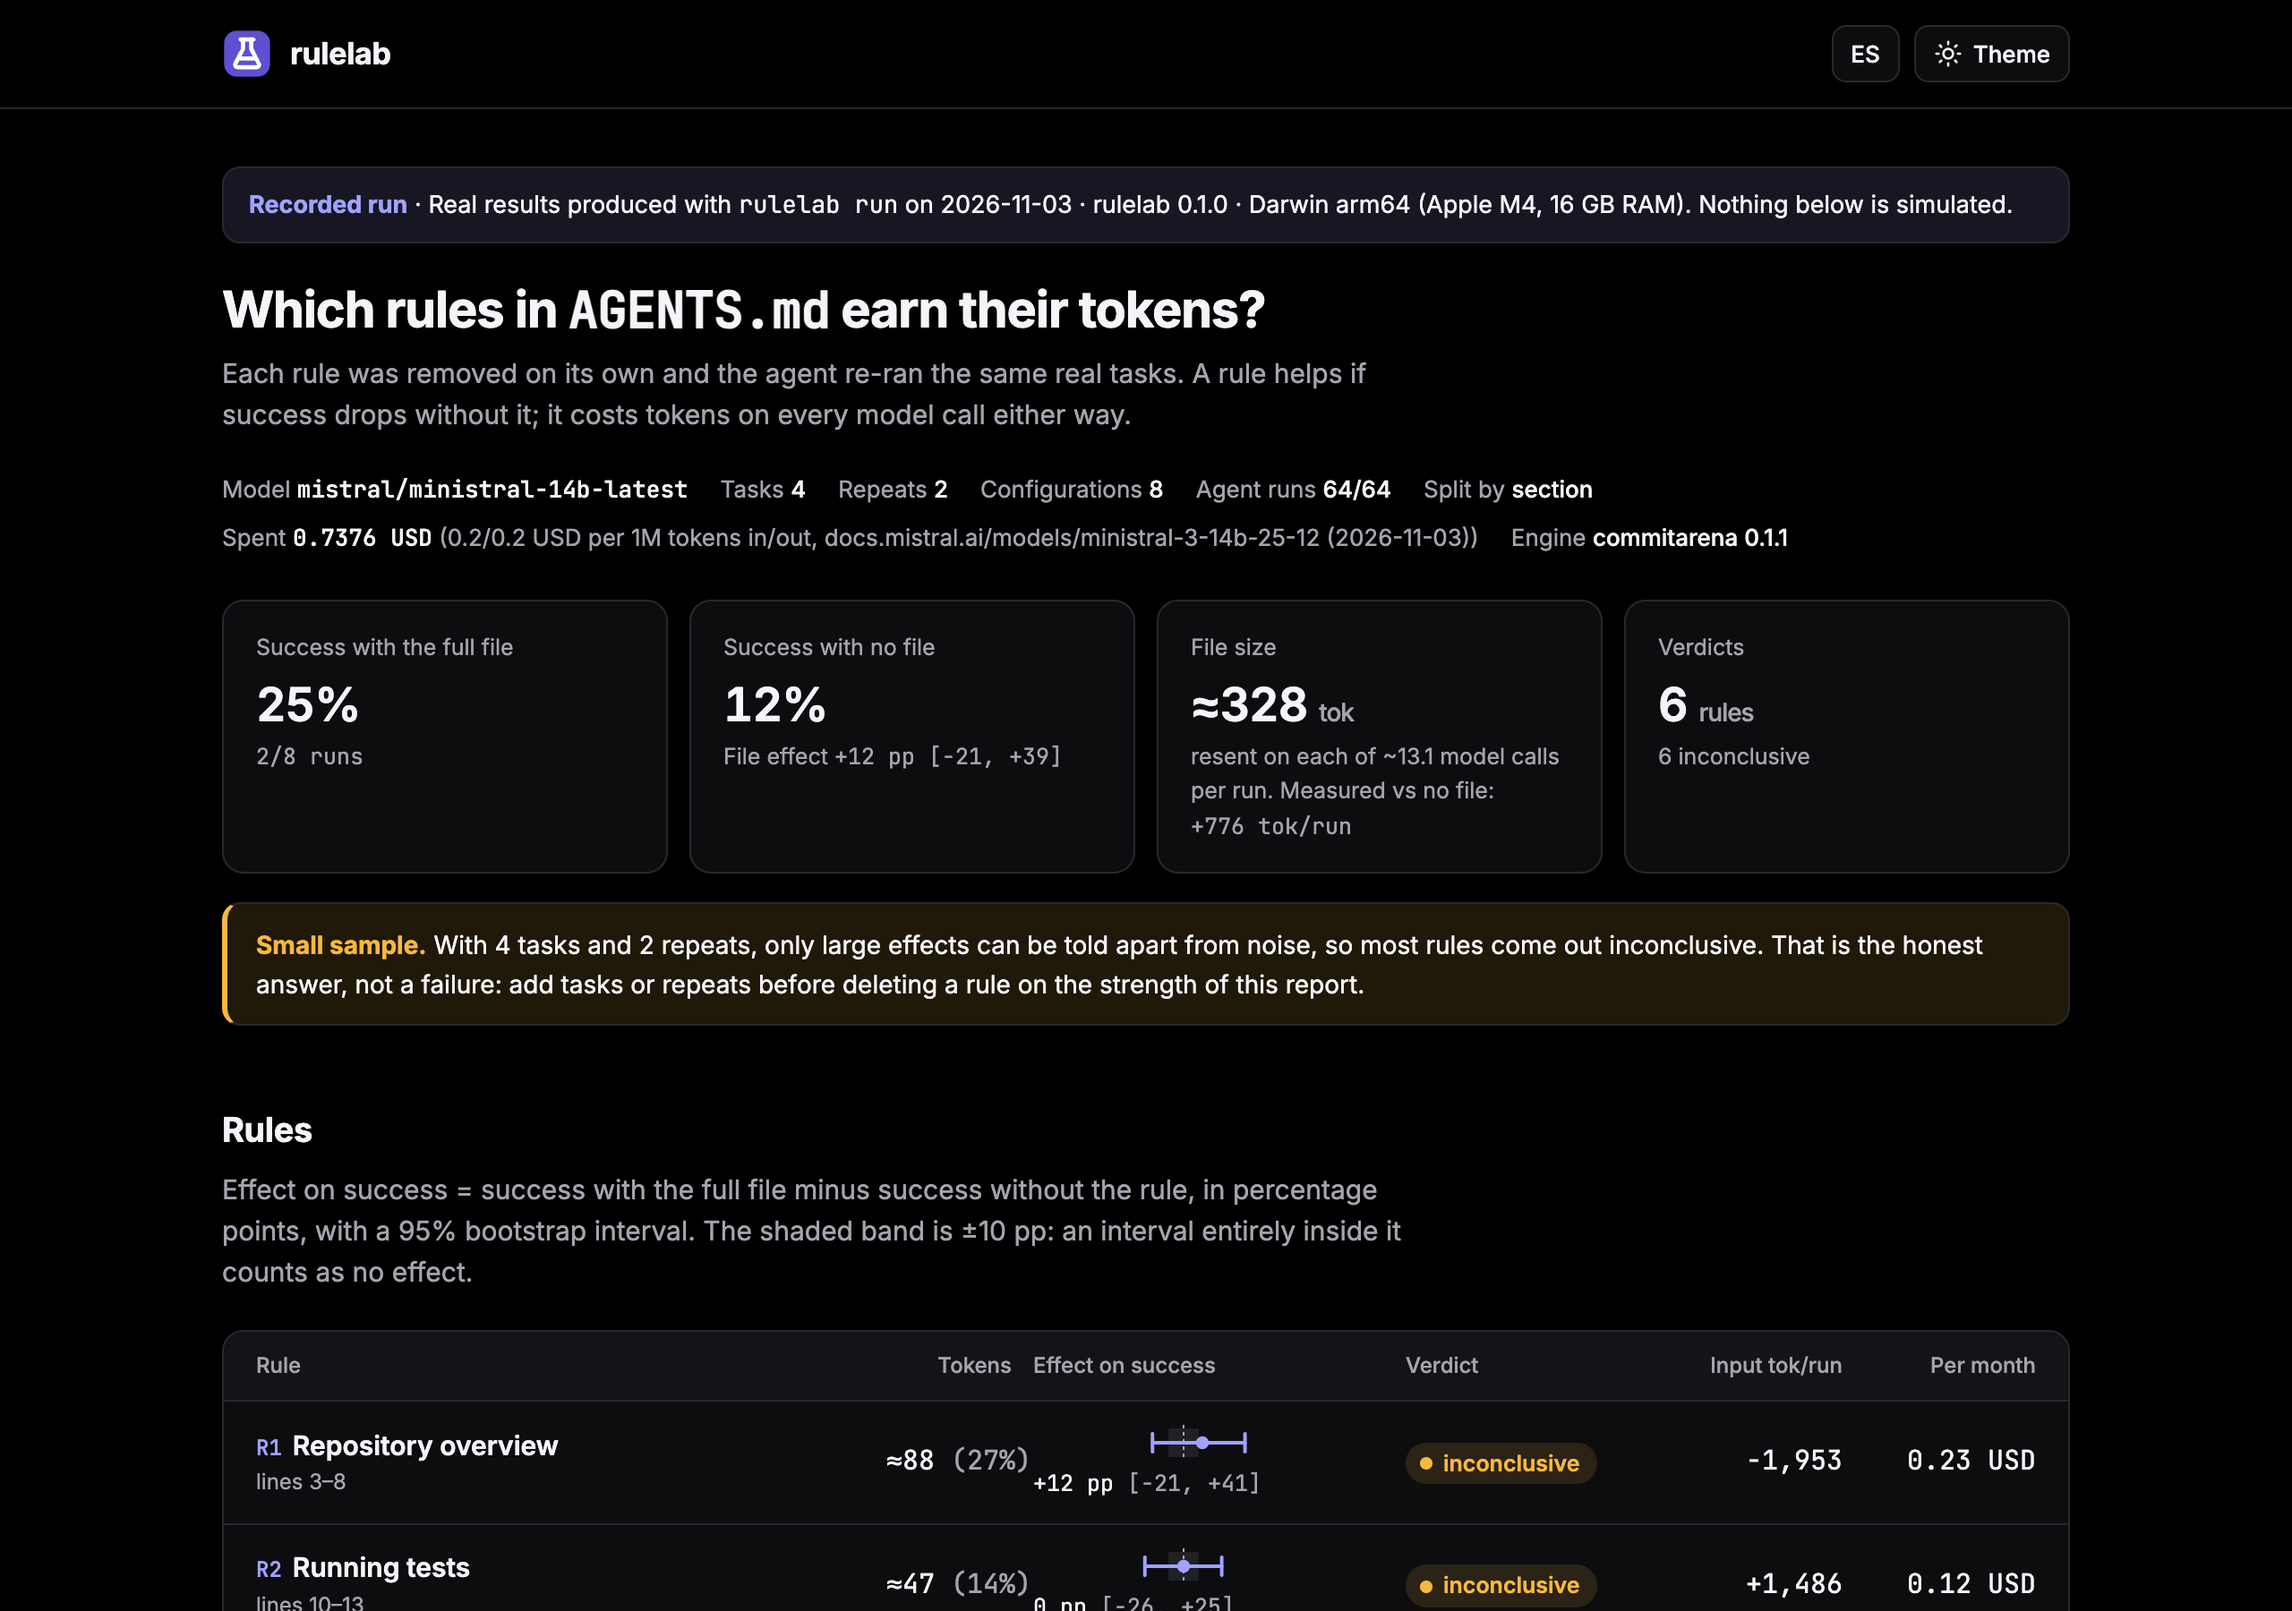
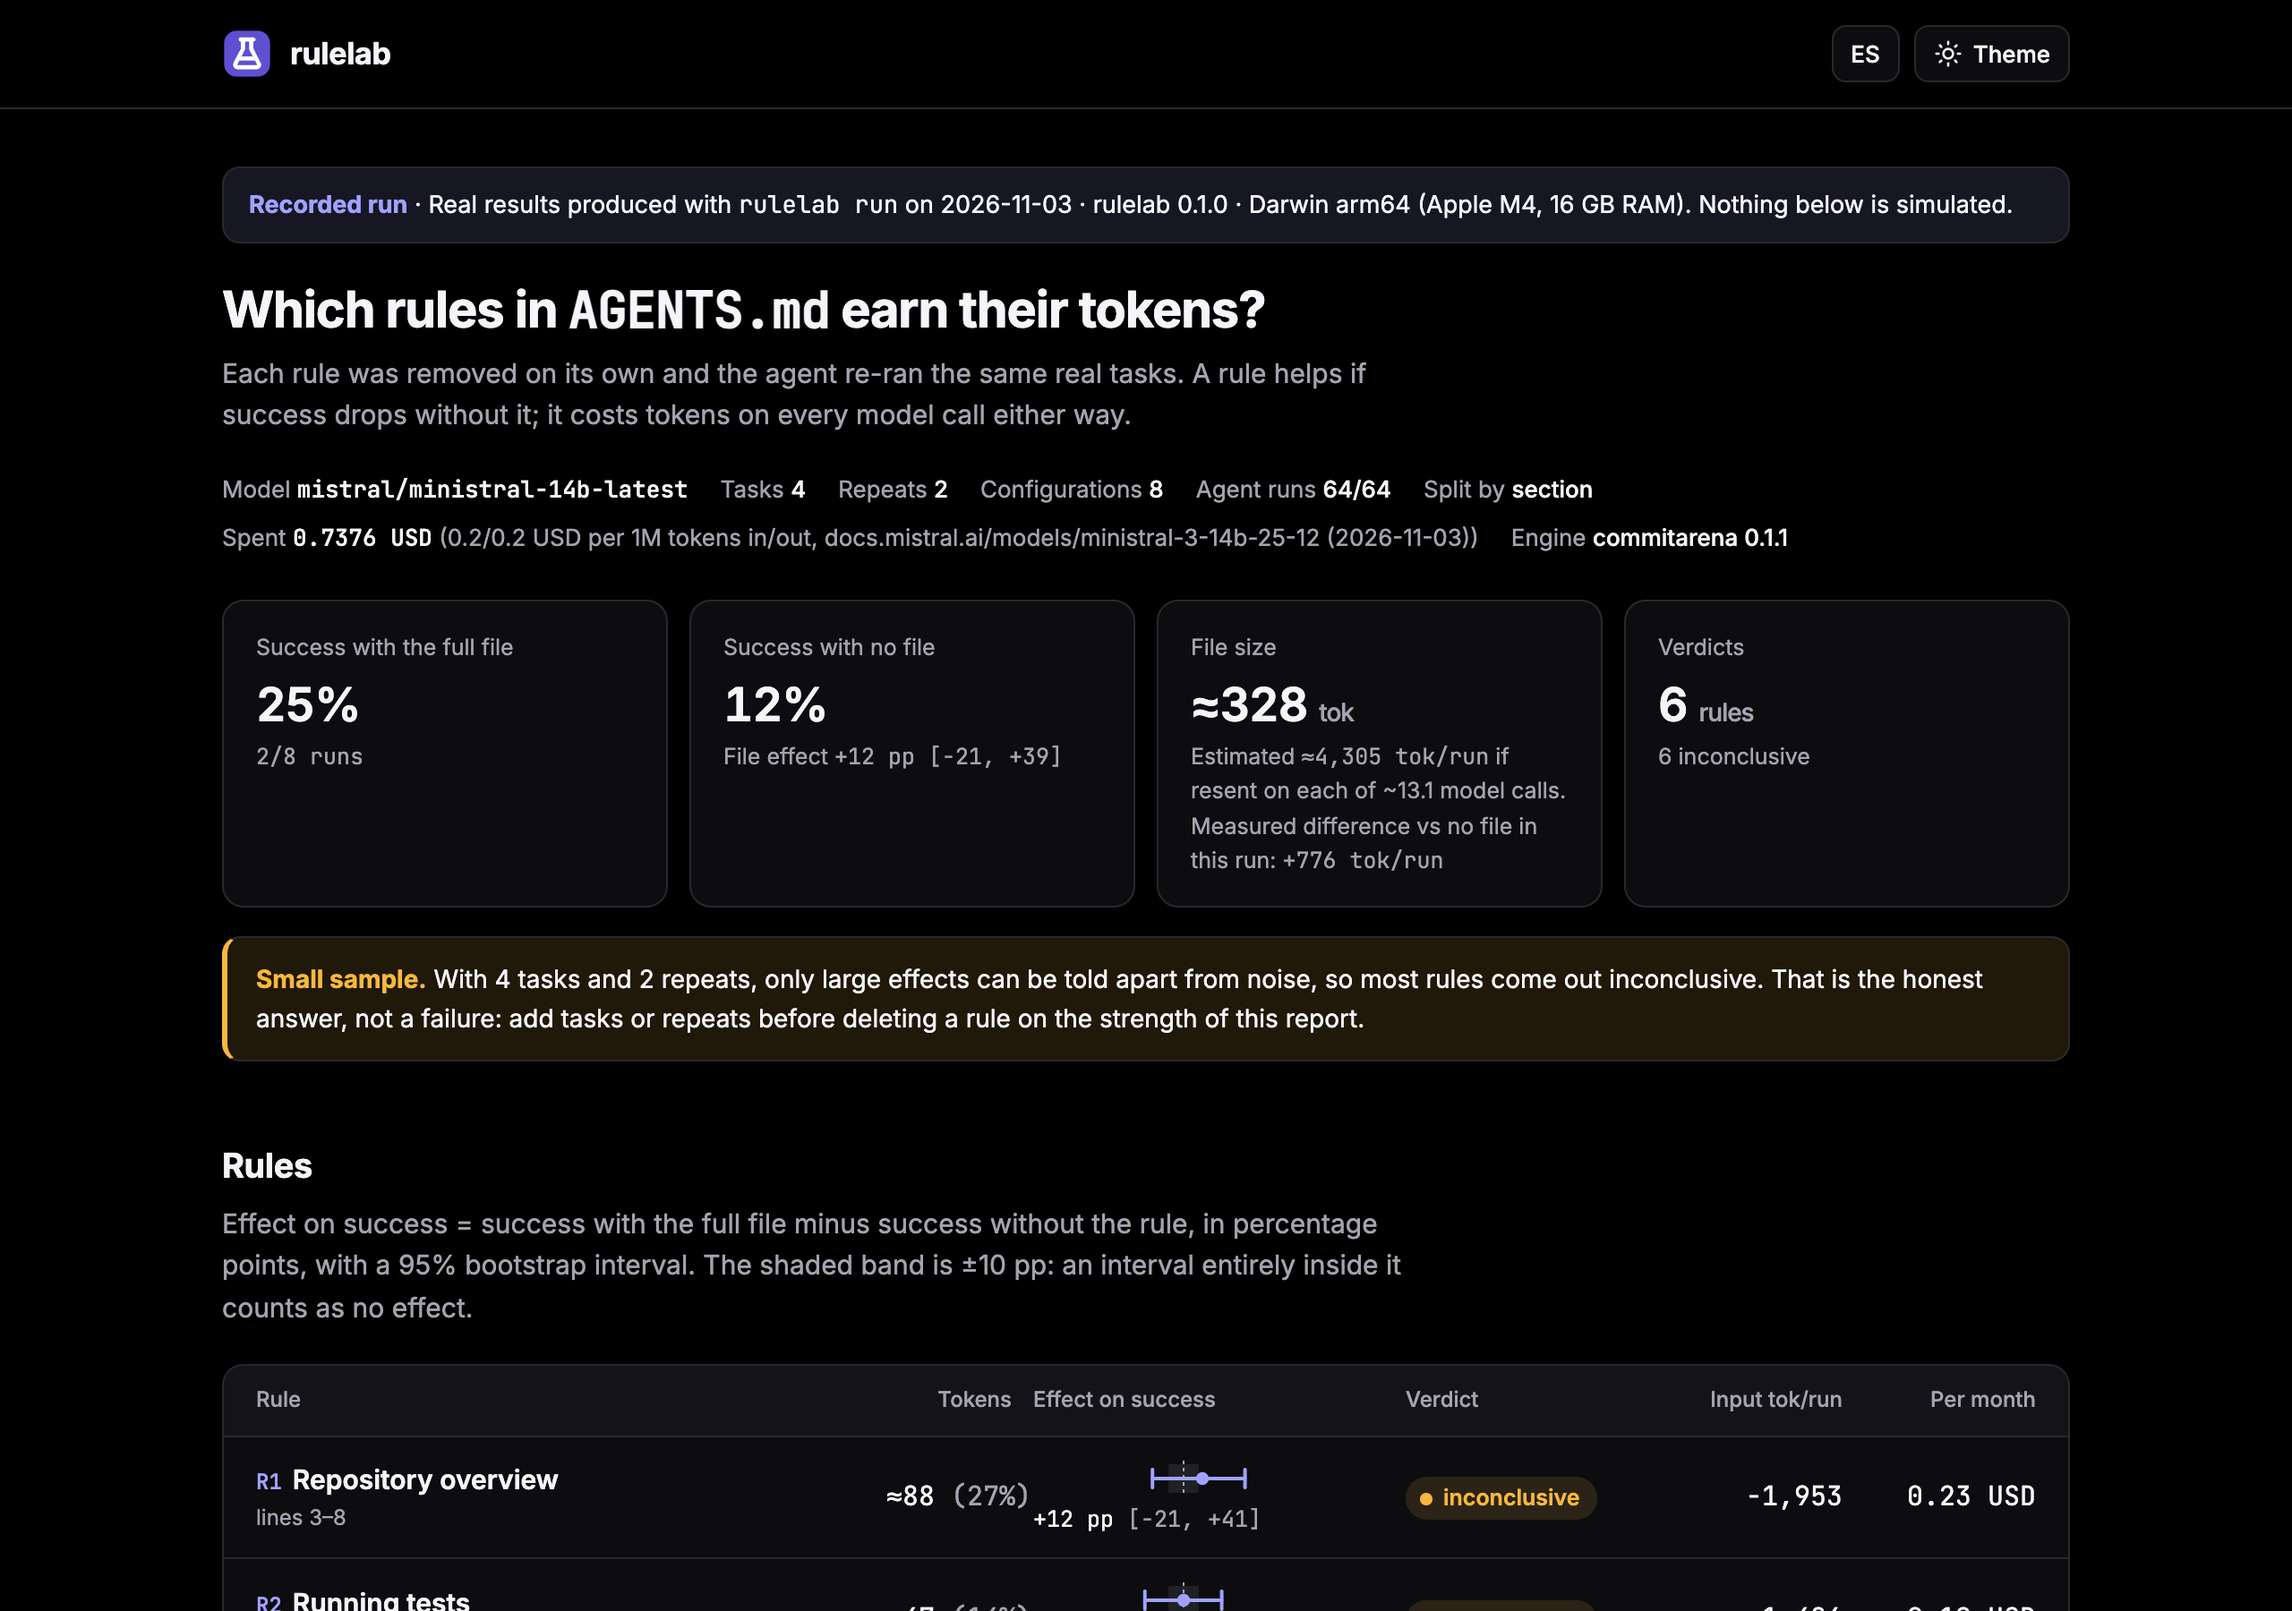
fix(report): locale-aware numbers, translated price label, separate estimated and measured file cost; v0.1.1

diff --git a/src/rulelab/report.py b/src/rulelab/report.py
@@ -6,9 +6,10 @@ import math
 from pathlib import Path
 
 from jinja2 import Environment, PackageLoader, select_autoescape
+from markupsafe import Markup, escape
 
 from . import __version__
-from .analysis import Analysis, file_monthly_usd
+from .analysis import Analysis, file_monthly_usd, file_tokens_per_run
 from .configs import FULL, NONE
 
 VERDICT_LABELS = {
@@ -54,6 +55,44 @@ def usd(x: float | None, digits: int = 2) -> str:
     if 0 < abs(x) < 10 ** (-digits):
         return f"<{10 ** (-digits):.{digits}f}"
     return f"{x:,.{digits}f}"
+
+
+def _es(text: str) -> str:
+    """English-formatted number -> Spanish (1,953.5 -> 1.953,5)."""
+    return text.replace(",", "\0").replace(".", ",").replace("\0", ".")
+
+
+def _both(en: str, es: str) -> Markup:
+    return Markup('<span lang="en">%s</span><span lang="es">%s</span>') % (escape(en), escape(es))
+
+
+def b_num(x: float | None, digits: int = 0) -> Markup:
+    if x is None or not _num(x):
+        return _both("n/a", "n/d")
+    en = f"{x:,.{digits}f}"
+    return _both(en, _es(en))
+
+
+def b_signed_int(x: float | None) -> Markup:
+    en = signed_int(x)
+    return _both(en, "n/d" if en == "n/a" else _es(en))
+
+
+def b_usd(x: float | None, digits: int = 2) -> Markup:
+    en = usd(x, digits)
+    if en == "n/a":
+        return _both("n/a", "n/d")
+    return _both(f"{en} USD", f"{_es(en)} US$")
+
+
+def b_pct(x: float | None) -> Markup:
+    en = pct(x)
+    return _both(en, "n/d" if en == "n/a" else en.replace("%", "\u00a0%"))
+
+
+def b_plain(x) -> Markup:
+    en = str(x)
+    return _both(en, _es(en))
 
 
 def ci_bar(low: float, high: float, est: float, margin: float, width: int = 168) -> dict:
@@ -110,7 +149,7 @@ def render_report(a: Analysis, *, recorded_note: dict | None = None) -> str:
         trim_blocks=True,
         lstrip_blocks=True,
     )
-    env.filters.update(pp=pp, pct=pct, usd=usd, signed_int=signed_int)
+    env.filters.update(pp=pp, pct=b_pct, usd=b_usd, signed_int=b_signed_int, num=b_num, plain=b_plain)
     res = a.results
     configs = []
     for c in res["configs"]:
@@ -151,6 +190,7 @@ def render_report(a: Analysis, *, recorded_note: dict | None = None) -> str:
         full_rate=a.rates.get(FULL),
         none_rate=a.rates.get(NONE),
         file_monthly=file_monthly_usd(a),
+        file_per_run=file_tokens_per_run(a),
         total_runs=len(res["runs"]),
         planned_runs=len(res["configs"]) * len(res["tasks"]) * res["repeats"],
         recorded=recorded_note,

diff --git a/src/rulelab/analysis.py b/src/rulelab/analysis.py
@@ -12,6 +12,7 @@ from .stats import DEFAULT_MARGIN, Effect, MeanCI, metric_delta, success_effect,
 # Claude Sonnet 5.5 input list price on OpenRouter, checked 3 Nov 2026 (USD per 1M tokens).
 REFERENCE_PRICE_IN = 2.0
 REFERENCE_PRICE_LABEL = "Claude Sonnet 5.5 input price on OpenRouter (3 Nov 2026)"
+REFERENCE_PRICE_LABEL_ES = "precio de entrada de Claude Sonnet 5.5 en OpenRouter (3 nov 2026)"
 DEFAULT_SESSIONS_PER_MONTH = 1000
 
 
@@ -47,6 +48,7 @@ class Analysis:
     mean_turns: float
     price_in: float
     price_label: str
+    price_label_es: str
     sessions_per_month: int
     margin: float
     errors: int
@@ -106,10 +108,12 @@ def analyze(
         model_price = _model_price_in(results)
         if model_price > 0:
             price_in, price_label = model_price, f"{results.get('model')} input price"
+            price_label_es = f"precio de entrada de {results.get('model')}"
         else:
             price_in, price_label = REFERENCE_PRICE_IN, REFERENCE_PRICE_LABEL
+            price_label_es = REFERENCE_PRICE_LABEL_ES
     else:
-        price_label = "--price-in"
+        price_label = price_label_es = "--price-in"
 
     rules: list[RuleResult] = []
     for i, rd in enumerate(results["file"]["rules"]):
@@ -152,11 +156,17 @@ def analyze(
         mean_turns=mean_turns,
         price_in=price_in,
         price_label=price_label,
+        price_label_es=price_label_es,
         sessions_per_month=sessions_per_month,
         margin=margin,
         errors=errors,
         counts=counts,
     )
+
+
+def file_tokens_per_run(a: Analysis) -> float:
+    """Estimated input tokens the file adds per run if it is resent on every model call."""
+    return a.results["file"]["tokens"] * a.mean_turns
 
 
 def file_monthly_usd(a: Analysis) -> float:

diff --git a/src/rulelab/cli.py b/src/rulelab/cli.py
@@ -16,7 +16,7 @@ from rich.console import Console
 from rich.table import Table
 
 from . import __version__
-from .analysis import DEFAULT_SESSIONS_PER_MONTH, Analysis, analyze
+from .analysis import DEFAULT_SESSIONS_PER_MONTH, Analysis, analyze, file_tokens_per_run
 from .errors import RulelabError
 from .experiment import BudgetError, check_budget, execute, load, make_plan, new_results
 from .report import VERDICT_LABELS, pp, signed_int, usd, write_report
@@ -101,12 +101,14 @@ def print_summary(a: Analysis) -> None:
             w = a.whole_file
             line += f" · file effect {pp(w.estimate)} pp [{pp(w.low)}, {pp(w.high)}]"
         console.print(line)
+    est = f"file tokens per run, estimated if resent on every call: ≈{file_tokens_per_run(a):,.0f}"
     if a.whole_file_tokens and a.whole_file_tokens.n:
         t = a.whole_file_tokens
-        console.print(
-            f"full file vs no file: {signed_int(t.mean)} input tokens per run "
+        est += (
+            f" · measured difference vs no file: {signed_int(t.mean)} "
             f"[{signed_int(t.low)}, {signed_int(t.high)}]"
         )
+    console.print(est)
     table = Table(show_lines=False, title_justify="left")
     table.add_column("rule", overflow="fold")
     table.add_column("≈tok", justify="right")

diff --git a/src/rulelab/__init__.py b/src/rulelab/__init__.py
@@ -1,3 +1,3 @@
 """rulelab: measure which rules in your AGENTS.md / CLAUDE.md earn their tokens."""
 
-__version__ = "0.1.0"
+__version__ = "0.1.1"

diff --git a/README.es.md b/README.es.md
@@ -52,7 +52,7 @@ Estrellas comprobadas con la API de GitHub el 3 nov 2026.
 Mira una ejecución real grabada (sin API key, sin Docker, en menos de un minuto):
 
 ```bash
-uvx --from git+https://github.com/diegoperezg7/rulelab@v0.1.0 rulelab demo --open
+uvx --from git+https://github.com/diegoperezg7/rulelab@v0.1.1 rulelab demo --open
 ```
 
 o desde un clon:
@@ -79,7 +79,7 @@ $ rulelab demo
 Recorded run · real results from rulelab run on 2026-11-03 · rulelab 0.1.0 · Darwin arm64 (Apple M4, 16 GB RAM)
 AGENTS.md · model mistral/ministral-14b-latest · 4 tasks × 2 repeats × 8 configs · 64 runs · 0.7376 USD
 full file 2/8 · no file 1/8 · file effect +12 pp [−21, +39]
-full file vs no file: +776 input tokens per run [−15,405, +17,616]
+file tokens per run, estimated if resent on every call: ≈4,305 · measured difference vs no file: +776 [−15,405, +17,616]
  rule                    ≈tok   effect (pp, 95% CI)   verdict        USD/month
  R1 Repository overview    88        +12 [−21, +41]   inconclusive        0.23
  R2 Running tests          47          0 [−26, +25]   inconclusive        0.12
@@ -104,7 +104,7 @@ Pasaron 13 de 64 ejecuciones. El fichero completo pasó 2/8 y sin fichero 1/8 (+
 acierto de 2/8 a 1/8, pero con 4 tareas y 2 repeticiones eso es una sola ejecución de diferencia:
 **todas las reglas salen no concluyentes**, y el informe lo dice en vez de forzar un veredicto. Lo
 que sí deja claro es el precio: el fichero son ≈328 tokens reenviados en cada una de las ~13
-llamadas al modelo, unos 4.300 tokens de entrada por ejecución. Para tener un veredicto, usa más
+llamadas al modelo; reenviado en cada una sumaría ≈4.305 tokens de entrada por ejecución estimados. La diferencia medida de verdad en esta ejecución (fichero completo frente a sin fichero) fue de +776 tokens de entrada por ejecución, con un intervalo amplio, porque las trayectorias del agente varían mucho más que eso. Para tener un veredicto, usa más
 tareas y repeticiones sobre tu propio repo.
 
 Una ejecución anterior más grande (144 ejecuciones con codestral sobre una versión previa de

diff --git a/README.md b/README.md
@@ -52,7 +52,7 @@ Star counts checked with the GitHub API on 3 Nov 2026.
 See a recorded real run (no API key, no Docker, under a minute):
 
 ```bash
-uvx --from git+https://github.com/diegoperezg7/rulelab@v0.1.0 rulelab demo --open
+uvx --from git+https://github.com/diegoperezg7/rulelab@v0.1.1 rulelab demo --open
 ```
 
 or from a clone:
@@ -79,7 +79,7 @@ $ rulelab demo
 Recorded run · real results from rulelab run on 2026-11-03 · rulelab 0.1.0 · Darwin arm64 (Apple M4, 16 GB RAM)
 AGENTS.md · model mistral/ministral-14b-latest · 4 tasks × 2 repeats × 8 configs · 64 runs · 0.7376 USD
 full file 2/8 · no file 1/8 · file effect +12 pp [−21, +39]
-full file vs no file: +776 input tokens per run [−15,405, +17,616]
+file tokens per run, estimated if resent on every call: ≈4,305 · measured difference vs no file: +776 [−15,405, +17,616]
  rule                    ≈tok   effect (pp, 95% CI)   verdict        USD/month
  R1 Repository overview    88        +12 [−21, +41]   inconclusive        0.23
  R2 Running tests          47          0 [−26, +25]   inconclusive        0.12
@@ -103,7 +103,7 @@ most recent tasks of commitarena's own demo set: bug fixes from
 Removing the repository overview or the bug-fixing rule dropped success from 2/8 to 1/8, but with
 4 tasks and 2 repeats that is one run's difference: **every rule is inconclusive**, and the report
 says so instead of forcing a verdict. What the run does pin down is the price: the file is ≈328
-tokens resent on each of ~13 model calls, about 4,300 input tokens per run. To get a verdict,
+tokens; resent on each of ~13 model calls it would add an estimated ≈4,305 input tokens per run. The difference actually measured in this run (full file vs no file) was +776 input tokens per run, with a wide interval, because agent trajectories vary far more than that. To get a verdict,
 run more tasks and repeats on your own repo.
 
 An earlier, larger run (144 runs with codestral on an older commitarena build) solved 1 of 144

diff --git a/CHANGELOG.md b/CHANGELOG.md
@@ -4,6 +4,14 @@ All notable changes to this project are documented here. The format follows
 [Keep a Changelog](https://keepachangelog.com/en/1.1.0/) and the project uses
 [Semantic Versioning](https://semver.org/).
 
+## [0.1.1] - 2026-11-03
+
+### Fixed
+- Report: numbers follow the active language (ES `1.953`, `0,23 US$`; EN `1,953`, `0.23 USD`).
+- Report: the cost-projection footnote is fully translated.
+- Report, terminal summary and docs: the estimated tokens per run (file resent on every call) and the measured
+  difference against no file are shown as two separate, named figures.
+
 ## [0.1.0] - 2026-11-03
 
 ### Added
